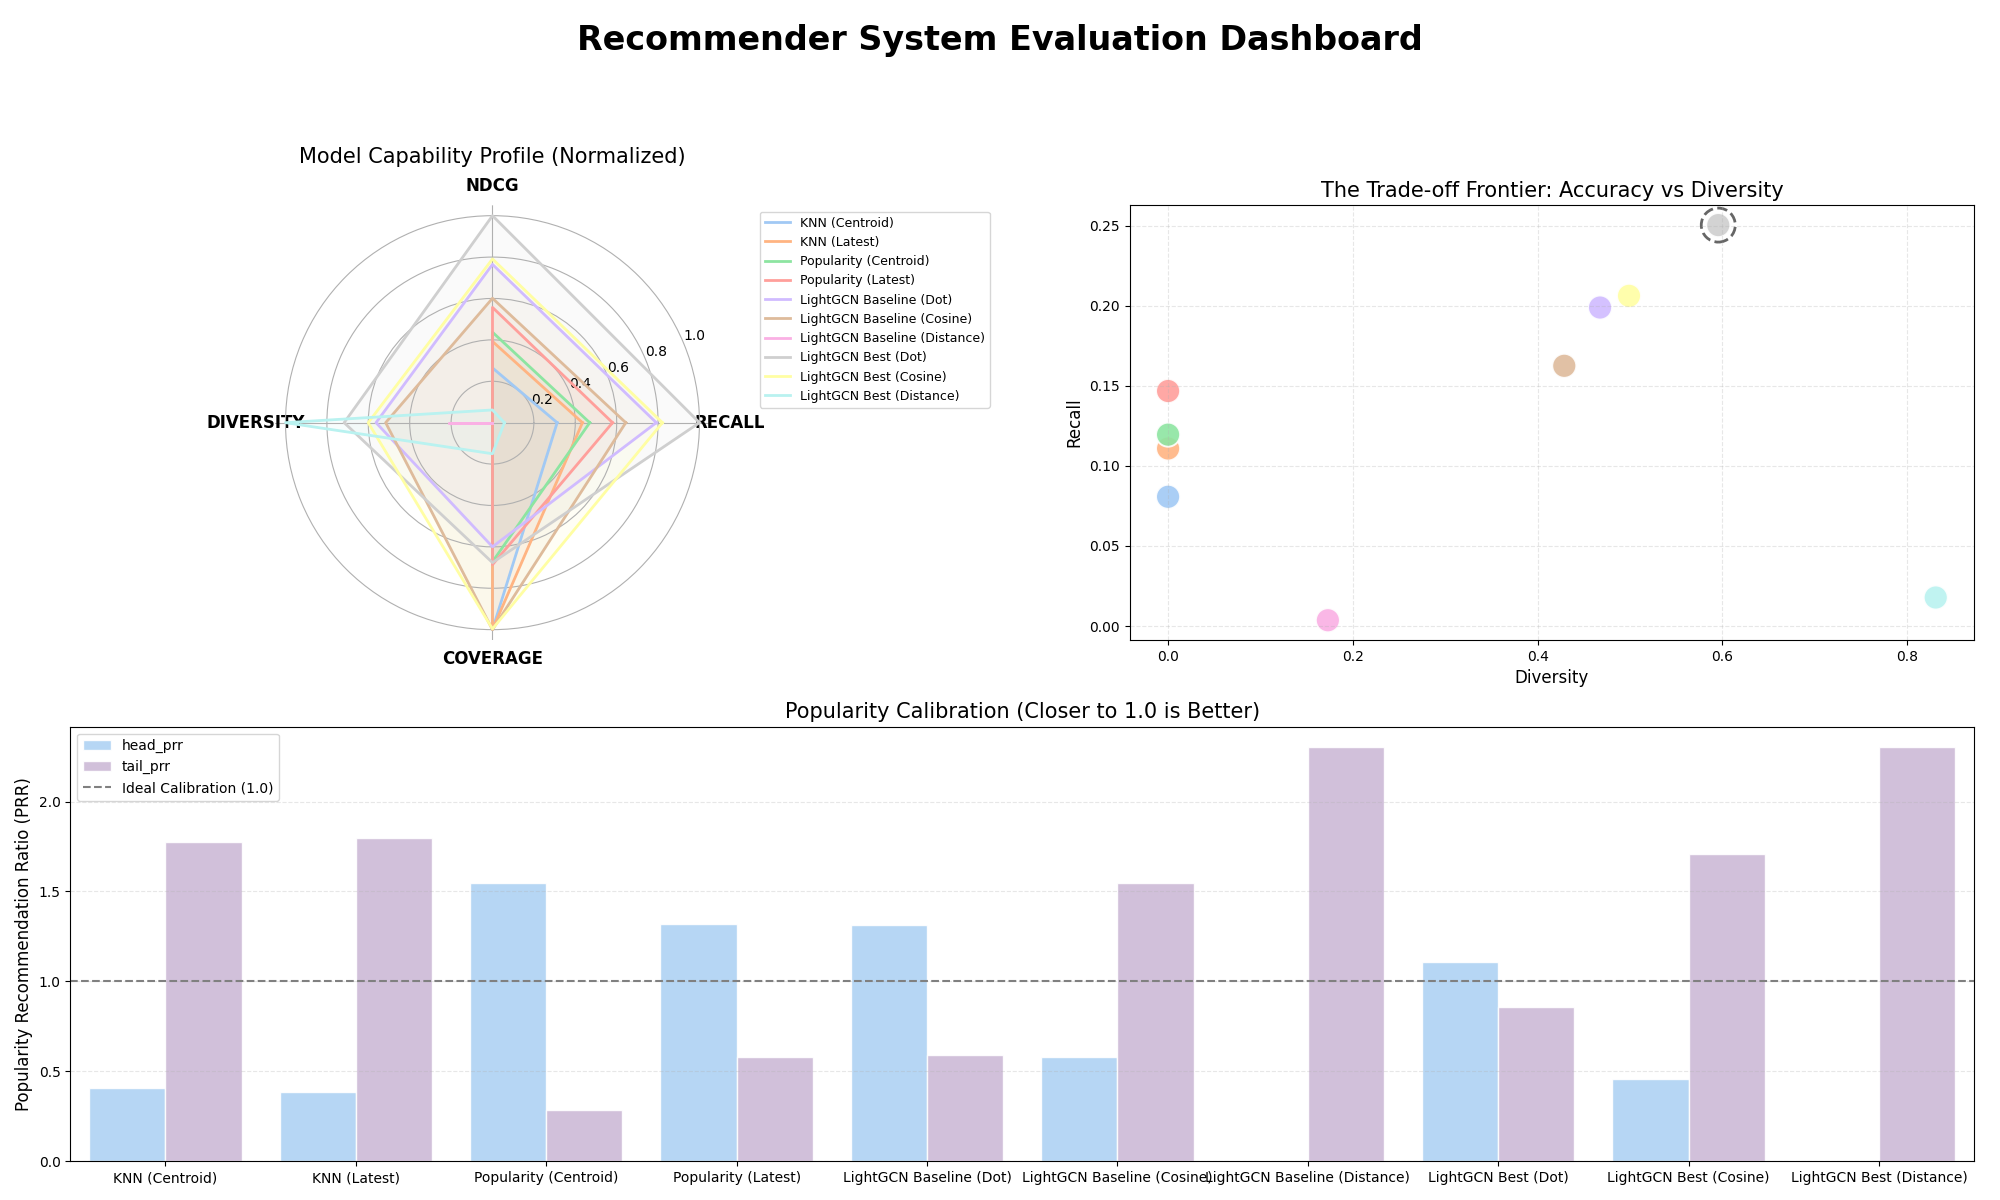
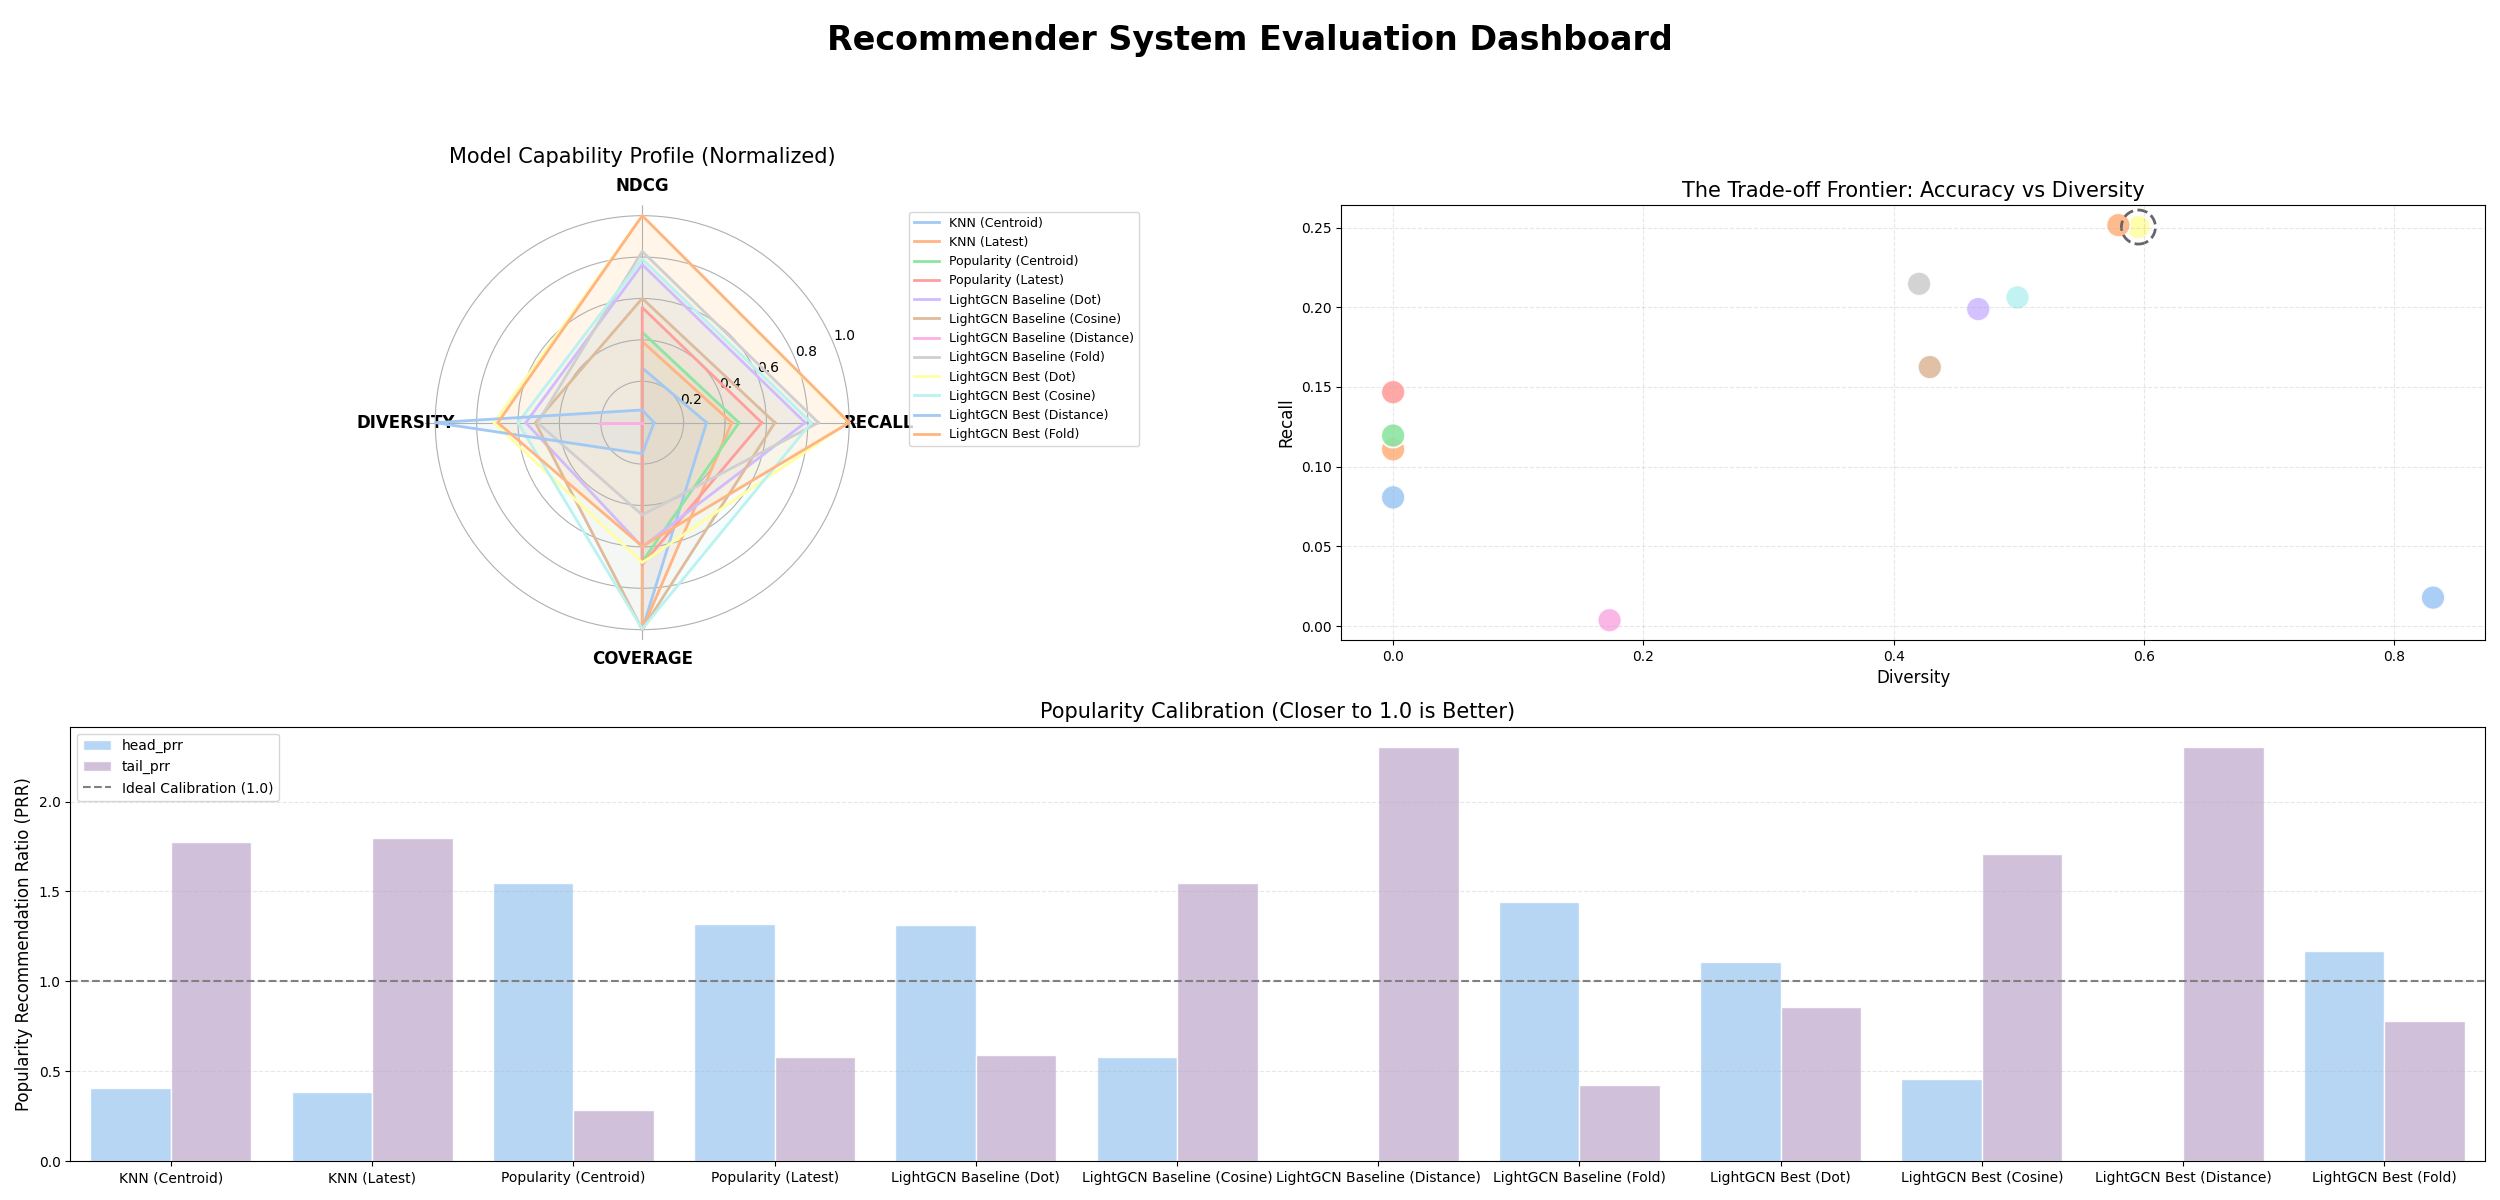
test with folding in

diff --git a/test.py b/test.py
@@ -11,15 +11,12 @@ from testing.metrics import *
 
 from utils import *
 
-def load_models(cfg, fold=False):
+def load_models(cfg):
     models = []
     for model_info in cfg.baselines:
         models.append(OmegaConf.to_container(model_info, resolve=True))
 
     for model_info in cfg.embeddings:
-        if not fold and model_info.type == "fold":
-            continue
-
         models.append(OmegaConf.to_container(model_info, resolve=True))
 
     return models
@@ -45,21 +42,13 @@ def run_inference(cfg):
     sampler = TestUserSampler(cfg, sample_users)
 
     for model_info in load_models(cfg):
-        results_path = f"{cfg.paths.result}/samples/{model_info["model"]}/{model_info["type"]}"
-        if len(os.listdir(results_path)) == cfg.inference.num_samples:
-            continue
-
         sampler.sample(model_info, cfg.inference.log)
 
 def recommend_new_users(cfg):
     users = load_new_users(cfg)
     sampler = NewUserSampler(cfg)
 
-    for model_info in load_models(cfg, fold=True):
-        results_path = f"{cfg.paths.result}/new_users/{model_info["model"]}/{model_info["type"]}"
-        if len(os.listdir(results_path)) == len(os.listdir(cfg.paths.users)):
-            continue
-
+    for model_info in load_models(cfg):
         sampler.sample(model_info, users, cfg.inference.log)
 
 @hydra.main(version_base=None, config_path="config", config_name="test")
@@ -69,14 +58,14 @@ def main(cfg):
     print("Comparing model performances on validation datast...")
     update_valid_performances(cfg)
 
-    print("Adding new user for inference...")
-    add_new_user(cfg)
-
     print("Calculating metrics on test dataset...")
     calculate_metrics(cfg)
 
     print("Running inference on sampled users...")
     run_inference(cfg)
+
+    print("Adding new user for inference...")
+    add_new_user(cfg)
 
     print("Running recommenders on new users...")
     recommend_new_users(cfg)

diff --git a/testing/recommender.py b/testing/recommender.py
@@ -236,8 +236,30 @@ class EmbeddingFoldRecommender(EmbeddingRecommender):
         self.item_degrees = self.compute_item_degrees()
 
     def compute_test_user_scores(self, users):
-        batch_user_embs = self.user_embs[users]
+        rows, cols, n_histories = [], [], []
+
+        for i, uid in enumerate(users.cpu().numpy()):
+            history_iids = self.train_user_pos.get(uid, [])
+            if history_iids:
+                length = len(history_iids)
+                rows.extend([i] * length)
+                cols.extend(history_iids)
+                n_histories.extend([length] * length)
+
+        rows_t = torch.tensor(rows, device=self.device, dtype=torch.long)
+        cols_t = torch.tensor(cols, device=self.device, dtype=torch.long)
+        n_hist_t = torch.tensor(n_histories, device=self.device, dtype=torch.float32)
+
+        target_item_degrees = self.item_degrees[cols_t]
+        norm_values = 1.0 / torch.sqrt(n_hist_t * target_item_degrees)
+
+        indices = torch.stack([rows_t, cols_t])
+        shape = (len(users), self.item_size)
+
+        user_history_graph = torch.sparse_coo_tensor(indices, norm_values, size=shape, device=self.device)
+        batch_user_embs = torch.sparse.mm(user_history_graph, self.item_embs)
         scores = torch.matmul(batch_user_embs, self.item_embs.t())
+
         return scores
 
     def compute_item_degrees(self):

diff --git a/testing/metrics.py b/testing/metrics.py
@@ -143,7 +143,7 @@ def plot_test_results(cfg, df):
     colors = sns.color_palette("pastel", len(df))
     cmap = {name: col for name, col in zip(df["name"], colors)}
 
-    fig = plt.figure(figsize=(20, 12))
+    fig = plt.figure(figsize=(25, 12))
     fig.patch.set_facecolor('white')
 
     fig.suptitle("Recommender System Evaluation Dashboard", fontsize=24, weight="bold", y=0.98)
